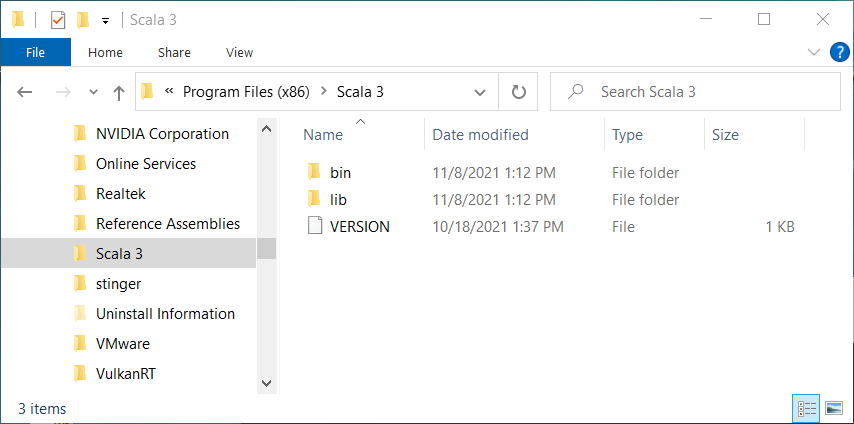
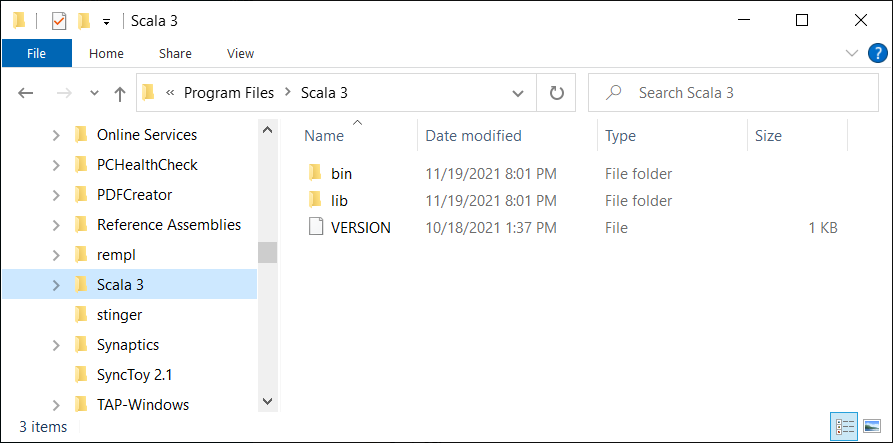
migrated to ProgramFiles64Folder/System64Folder (cnt'd)

diff --git a/scala3-examples/README.md b/scala3-examples/README.md
@@ -6,7 +6,7 @@
     <a href="https://wixtoolset.org/" rel="external"><img style="border:0;width:120px;" src="../docs/wixtoolset.png" alt="WiX project" /></a>
   </td>
   <td style="border:0;padding:0;vertical-align:text-top;">
-    Directory <strong><code>scala3-examples\</code></strong> contains <a href="https://wixtoolset.org/" rel="external">WiX</a> examples written by ourself for creating a <a href="https://dotty.epfl.ch/">Scala 3</a> Windows installer.<br/>This work is mainly motivated by <a href="https://github.com/lampepfl/dotty/issues/12502">issue 12502</a> of the <a href="https://github.com/lampepfl/dotty">Dotty project</a>.
+    Directory <strong><code>scala3-examples\</code></strong> contains <a href="https://wixtoolset.org/" rel="external">WiX</a> examples written by ourself for creating a <a href="https://dotty.epfl.ch/">Scala 3</a> Windows installer.<br/>This work is mainly motivated by <a href="https://github.com/lampepfl/dotty/issues/12502">issue 12502</a> (<i>Distribute releases as .deb and .msi</i>) of the <a href="https://github.com/lampepfl/dotty">Dotty project</a>.
   </td>
   </tr>
 </table>
@@ -68,7 +68,7 @@ Figures **1.1** to **1.5** below illustrate the updated user environment after t
   <a href="images/Scala3First.png">
   <img style="max-width:180px;" src="images/Scala3First.png" alt="Scala 3 directory" />
   </a>
-  <div style="font-size:70%;"><b>Figure 1.1 -</b> <i>Scala 3</i> directory<br>(<i>Program Files (x86)</i> folder).<br/>&nbsp;
+  <div style="font-size:70%;"><b>Figure 1.1 -</b> <i>Scala 3</i> directory<br>(<i>Program Files</i> folder).<br/>&nbsp;
   </div>
   <div>
   <a href="images/Scala3First_Menu.png">
@@ -136,13 +136,13 @@ Figures **2.1** to **2.4** below illustrate the dialog windows of the Windows in
   <a href="images/Scala3UI_Setup1.png">
   <img style="max-width:180px;" src="images/Scala3UI_Setup1.png" alt="Welcome" />
   </a>
-  <div style="font-size:70%;"><b>Figure 2.1 -</b> Welcome<br/>(<i>Scala 3</i> Windows installer).<br/>&nbsp;
+  <div style="font-size:70%;"><b>Figure 2.1 -</b> Welcome<br/>(<i>Scala 3</i> installer).<br/>&nbsp;
   </div>
   <div>
   <a href="images/Scala3UI_Setup2.png">
   <img style="max-width:180px;" src="images/Scala3UI_Setup2.png" alt="EULA" />
   </a>
-  <div style="font-size:70%;"><b>Figure 2.2 -</b> EULA<br/>(<i>Scala 3</i> Windows installer).
+  <div style="font-size:70%;"><b>Figure 2.2 -</b> EULA<br/>(<i>Scala 3</i> installer).
   </div>
 </td>
 <td style="text-align:center;background-color:#bbeedd;">
@@ -150,13 +150,13 @@ Figures **2.1** to **2.4** below illustrate the dialog windows of the Windows in
   <a href="images/Scala3UI_Setup3.png">
   <img style="max-width:180px;" src="images/Scala3UI_Setup3.png" alt="Custom Setup" />
   </a>
-  <div style="font-size:70%;"><b>Figure 2.3 -</b> Custom Setup<br/>(<i>Scala 3</i> Windows installer).<br/>&nbsp;
+  <div style="font-size:70%;"><b>Figure 2.3 -</b> Custom Setup<br/>(<i>Scala 3</i> installer).<br/>&nbsp;
   </div>
   <div>
   <a href="images/Scala3UI_Setup5.png">
   <img style="max-width:180px;" src="images/Scala3UI_Setup5.png" alt="Completed" />
   </a>
-  <div style="font-size:70%;"><b>Figure 2.4 -</b> Completed installation<br/>(<i>Scala 3</i> Windows installer).
+  <div style="font-size:70%;"><b>Figure 2.4 -</b> Completed installation<br/>(<i>Scala 3</i> installer).
   </div>
 </td>
 <td style="text-align:center;">
@@ -164,7 +164,7 @@ Figures **2.1** to **2.4** below illustrate the dialog windows of the Windows in
   <a href="images/Scala3UI.png">
   <img style="max-width:180px;" src="images/Scala3UI.png" alt="Scala 3 directory" />
   </a>
-  <div style="font-size:70%;"><b>Figure 2.5 -</b> <i>Scala 3</i> directory<br>(<i>Program Files (x86)</i> folder).<br/>&nbsp;
+  <div style="font-size:70%;"><b>Figure 2.5 -</b> <i>Scala 3</i> directory<br>(<i>Program Files</i> folder).<br/>&nbsp;
   </div>
   <div>
   <a href="images/Scala3UI_Menu.png">

diff --git a/QUICKREF.md b/QUICKREF.md
@@ -18,14 +18,14 @@ The [WiX Toolset][wix_toolset] engine provides many [built-in variables](https:/
 
 For instance, the variables below are defined as follows for a 64-bit Windows system ([CSIDL]=*"constant special item ID list"*) :
 
-| WiX variable          | [CSIDL]                        |
-|:----------------------|:--------------------------------|
-| CommonFilesFolder     | `CSIDL_PROGRAM_FILES_COMMONX86` |
-| CommonFiles64Folder   | `CSIDL_PROGRAM_FILES_COMMON`    |
-| ProgramFilesFolder    | `CSIDL_PROGRAM_FILESX86`        |
-| ProgramFiles64Folder  | `CSIDL_PROGRAM_FILES`           |
-| SystemFolder          | `CSIDL_SYSTEMX86`&nbsp;*(on&nbsp;64-bit&nbsp;Windows)* |
-| System64Folder        | `CSIDL_SYSTEm`  |
+| WiX variable         | [CSIDL]                         | Path |
+|:---------------------|:--------------------------------|:-----|
+| CommonFilesFolder    | `CSIDL_PROGRAM_FILES_COMMONX86` | |
+| CommonFiles64Folder  | `CSIDL_PROGRAM_FILES_COMMON`    | |
+| ProgramFilesFolder   | `CSIDL_PROGRAM_FILESX86`        | |
+| ProgramFiles64Folder | `CSIDL_PROGRAM_FILES`           | |
+| SystemFolder         | `CSIDL_SYSTEMX86`               | |
+| System64Folder       | `CSIDL_SYSTEM`                  | `C:\Windows\SysWOW64` |
 
 The [WiX][wix_toolset] developer has to take care of them when specifying the `candle` option `-arch <name>` :
 
